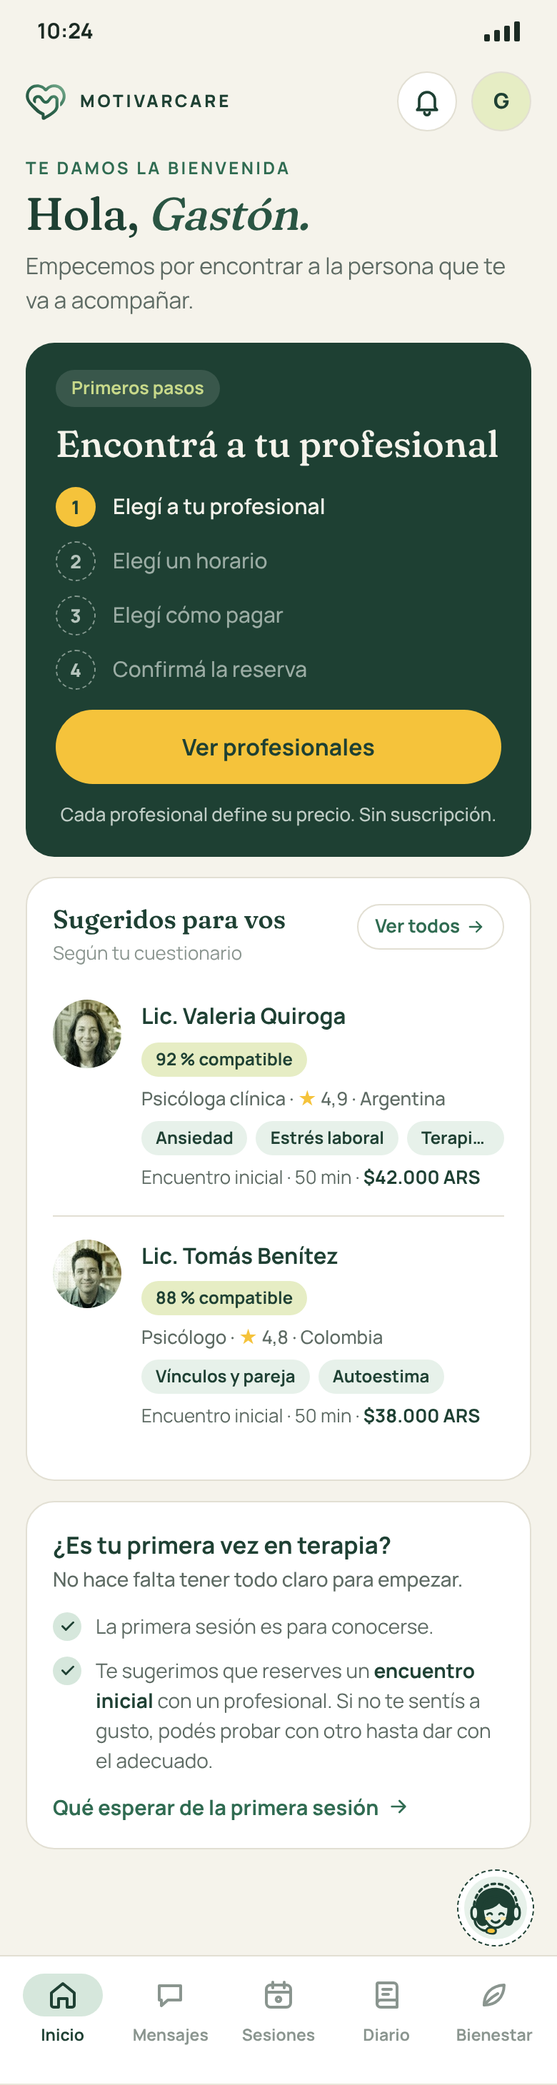
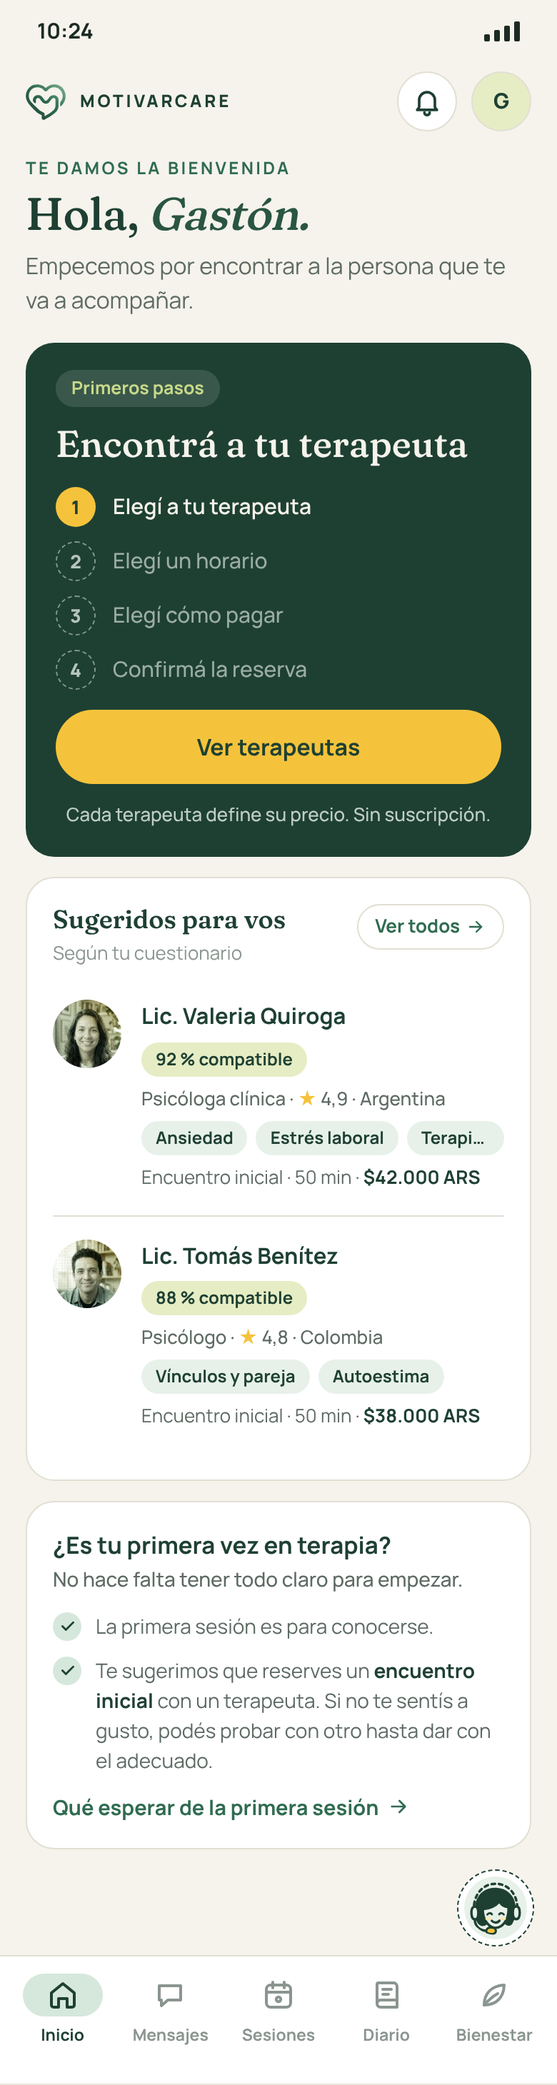
App del usuario: "Tu terapeuta", sumar terapeutas y avisos en el mockup 4
- "Tu profesional" pasa a "Tu terapeuta" en todos los mockups de la
  Ronda #2; el mockup 3 habla de terapeutas.
- Mockups 1, 2 y 4: espacio punteado "Sumar un terapeuta" debajo de la
  tarjeta.
- Mockup 4: solo psicólogos, el terapeuta principal primero y avisos de
  sesión próxima o mensaje sin leer en las pastillas de los demás.
- La regla de "Tu terapeuta", otros terapeutas y "Profesionales" queda
  en contexto.md y en las decisiones de la ronda.

Claude-Session: https://claude.ai/code/session_01WU1DRuLLvKJwMVuiPWLics

diff --git a/web/public/app-usuario/ronda-2.html b/web/public/app-usuario/ronda-2.html
@@ -539,6 +539,18 @@ ul.lista-simple { padding: 0; }
 .tel-pro.multi .tabs-pro { gap: 6px; }
 .tel-pro.multi .tab-pro { padding: 0 10px 0 4px; font-size: 12.5px; height: 38px; }
 .tel-pro.multi .tab-pro img { width: 30px; height: 30px; }
+
+/* Terapeutas: avisos en las pastillas y "Sumar un terapeuta" */
+.tab-pro .aviso { display: inline-flex; align-items: center; gap: 3px; margin-left: -2px; padding: 3px 7px; border-radius: 99px; font-size: 11px; font-weight: 800; color: var(--bosque); }
+.tab-pro .aviso .ico { width: 12px; height: 12px; }
+.tab-pro .aviso.ses { background: var(--menta); }
+.tab-pro .aviso.msj { background: var(--amarillo); }
+.tabs-pro { flex-wrap: wrap; }
+.columna-der { display: flex; flex-direction: column; gap: 10px; min-width: 0; }
+.sumar-terapeuta .sumar { display: flex; align-items: center; gap: 12px; padding: 16px 18px; border-radius: var(--rm); border: 1.5px dashed var(--salvia-fuerte); font-weight: 700; font-size: 15px; color: var(--bosque); text-decoration: none; }
+.sumar-terapeuta .mas { width: 30px; height: 30px; border-radius: 50%; border: 1.5px dashed var(--bosque); display: grid; place-items: center; font-size: 18px; font-weight: 600; line-height: 1; }
+.sumar-terapeuta p { font-size: 13px; color: var(--tinta-tenue); margin-top: 8px; }
+.tel-sumar .sumar { padding: 14px 16px; }
 </style>
 </head>
 <body>
@@ -638,11 +650,12 @@ ul.lista-simple { padding: 0; }
             </div>
           </section>
         </div>
+        <div class="columna-der">
         <article class="tarjeta pro2">
           <div class="pro2-cab"><a class="ver-perfil">Ver perfil<svg class="ico"><use href="#i-flecha"/></svg></a>
             <img class="avatar" src="../landing/img/profesionales/valeria-quiroga.jpg" alt="" width="64" height="64">
             <div>
-              <span class="tenue">Tu profesional</span>
+              <span class="tenue">Tu terapeuta</span>
               <b>Lic. Valeria Quiroga</b>
               <span class="califica"><span class="estrella">★</span> 4,9 <span class="sep">·</span> <span class="pais"><svg class="ico"><use href="#i-pin"/></svg>Argentina</span></span>
             </div>
@@ -653,6 +666,11 @@ ul.lista-simple { padding: 0; }
           <div class="disponibles"><span class="et">Sesiones disponibles</span><div class="fila-disp"><b>2</b><span>del paquete de 4 con Valeria</span><span class="puntos4"><i class="u"></i><i class="u"></i><i></i><i></i></span></div></div>
           <div class="botones"><a class="boton contorno"><svg class="ico chico"><use href="#i-chat"/></svg>Escribile</a><a class="boton contorno">Comprar más sesiones</a></div>
         </article>
+          <div class="sumar-terapeuta">
+            <a class="sumar"><span class="mas">+</span>Sumar un terapeuta</a>
+            <p>Cada terapeuta tiene sus propias sesiones, su precio y su paquete.</p>
+          </div>
+        </div>
       </div>
 
     </div>
@@ -690,7 +708,7 @@ ul.lista-simple { padding: 0; }
       <div class="pro2-cab"><a class="ver-perfil">Ver perfil<svg class="ico"><use href="#i-flecha"/></svg></a>
         <img class="avatar" src="../landing/img/profesionales/valeria-quiroga.jpg" alt="" width="52" height="52">
         <div>
-          <span class="tenue">Tu profesional</span>
+          <span class="tenue">Tu terapeuta</span>
           <b>Lic. Valeria Quiroga</b>
           <span class="califica"><span class="estrella">★</span> 4,9 <span class="sep">·</span> <span class="pais"><svg class="ico"><use href="#i-pin"/></svg>Argentina</span></span>
         </div>
@@ -701,6 +719,10 @@ ul.lista-simple { padding: 0; }
       <div class="disponibles"><span class="et">Sesiones disponibles</span><div class="fila-disp"><b>2</b><span>del paquete de 4 con Valeria</span><span class="puntos4"><i class="u"></i><i class="u"></i><i></i><i></i></span></div></div>
       <div class="botones"><a class="boton contorno"><svg class="ico chico"><use href="#i-chat"/></svg>Escribile</a><a class="boton contorno">Comprar más sesiones</a></div>
     </article>
+    <div class="sumar-terapeuta tel-sumar">
+            <a class="sumar"><span class="mas">+</span>Sumar un terapeuta</a>
+            <p>Cada terapeuta tiene sus propias sesiones, su precio y su paquete.</p>
+          </div>
     <article class="tarjeta menta clima" style="gap:12px">
             <div class="cab-clima"><div><b>¿Cómo está tu día?</b></div><a class="enlace">Ir al diario<svg class="ico"><use href="#i-flecha"/></svg></a></div>
             <div class="ops-clima"><span class="op"><span class="ci"><svg viewBox="0 0 24 24" aria-hidden="true"><g transform="translate(0,-2.5)"><path d="M7.5 17.5h9.8a3.7 3.7 0 0 0 .3-7.4 5.2 5.2 0 0 0-10-1A4.2 4.2 0 0 0 7.5 17.5z"/></g><path d="M12.6 15.6l-1.9 3.2h2.8l-1.9 3.4"/></svg></span>Tormenta</span><span class="op"><span class="ci"><svg viewBox="0 0 24 24" aria-hidden="true"><g transform="translate(0,-2.5)"><path d="M7.5 17.5h9.8a3.7 3.7 0 0 0 .3-7.4 5.2 5.2 0 0 0-10-1A4.2 4.2 0 0 0 7.5 17.5z"/></g><path d="M9 17.6l-.9 2.6M12.4 17.6l-.9 2.6M15.8 17.6l-.9 2.6"/></svg></span>Lluvia</span><span class="op"><span class="ci"><svg viewBox="0 0 24 24" aria-hidden="true"><path d="M15.2 7.4a3.6 3.6 0 0 1 5.6 3.9"/><path d="M7.5 17.5h9.8a3.7 3.7 0 0 0 .3-7.4 5.2 5.2 0 0 0-10-1A4.2 4.2 0 0 0 7.5 17.5z"/></svg></span>Nublado</span><span class="op"><span class="ci"><svg viewBox="0 0 24 24" aria-hidden="true"><circle class="sol" cx="17.6" cy="6.2" r="3"/><path d="M17.6 1.6v.9M22.2 6.2h.9M20.9 2.9l.6-.6M14.3 2.9l-.6-.6"/><path class="tapa" d="M7.5 17.5h9.8a3.7 3.7 0 0 0 .3-7.4 5.2 5.2 0 0 0-10-1A4.2 4.2 0 0 0 7.5 17.5z"/></svg></span>Algo de sol</span><span class="op"><span class="ci"><svg viewBox="0 0 24 24" aria-hidden="true"><circle class="sol" cx="12" cy="12" r="4.2"/><path d="M12 3.5v1.8M12 18.7v1.8M3.5 12h1.8M18.7 12h1.8M6 6l1.3 1.3M16.7 16.7L18 18M6 18l1.3-1.3M16.7 7.3L18 6"/></svg></span>Despejado</span></div>
@@ -784,11 +806,12 @@ ul.lista-simple { padding: 0; }
             </div>
           </section>
         </div>
+        <div class="columna-der">
         <article class="tarjeta pro2">
           <div class="pro2-cab"><a class="ver-perfil">Ver perfil<svg class="ico"><use href="#i-flecha"/></svg></a>
             <img class="avatar" src="../landing/img/profesionales/valeria-quiroga.jpg" alt="" width="64" height="64">
             <div>
-              <span class="tenue">Tu profesional</span>
+              <span class="tenue">Tu terapeuta</span>
               <b>Lic. Valeria Quiroga</b>
               <span class="califica"><span class="estrella">★</span> 4,9 <span class="sep">·</span> <span class="pais"><svg class="ico"><use href="#i-pin"/></svg>Argentina</span></span>
             </div>
@@ -798,6 +821,11 @@ ul.lista-simple { padding: 0; }
           <div class="disponibles"><span class="et">Sesiones disponibles</span><div class="fila-disp"><b>2</b><span>del paquete de 4 con Valeria</span><span class="puntos4"><i class="u"></i><i class="u"></i><i></i><i></i></span></div></div>
           <div class="botones"><a class="boton contorno"><svg class="ico chico"><use href="#i-chat"/></svg>Escribile</a><a class="boton contorno">Comprar más sesiones</a></div>
         </article>
+          <div class="sumar-terapeuta">
+            <a class="sumar"><span class="mas">+</span>Sumar un terapeuta</a>
+            <p>Cada terapeuta tiene sus propias sesiones, su precio y su paquete.</p>
+          </div>
+        </div>
       </div>
 
     </div>
@@ -840,7 +868,7 @@ ul.lista-simple { padding: 0; }
       <div class="pro2-cab"><a class="ver-perfil">Ver perfil<svg class="ico"><use href="#i-flecha"/></svg></a>
         <img class="avatar" src="../landing/img/profesionales/valeria-quiroga.jpg" alt="" width="52" height="52">
         <div>
-          <span class="tenue">Tu profesional</span>
+          <span class="tenue">Tu terapeuta</span>
           <b>Lic. Valeria Quiroga</b>
           <span class="califica"><span class="estrella">★</span> 4,9 <span class="sep">·</span> <span class="pais"><svg class="ico"><use href="#i-pin"/></svg>Argentina</span></span>
         </div>
@@ -850,6 +878,10 @@ ul.lista-simple { padding: 0; }
       <div class="disponibles"><span class="et">Sesiones disponibles</span><div class="fila-disp"><b>2</b><span>del paquete de 4 con Valeria</span><span class="puntos4"><i class="u"></i><i class="u"></i><i></i><i></i></span></div></div>
       <div class="botones"><a class="boton contorno"><svg class="ico chico"><use href="#i-chat"/></svg>Escribile</a><a class="boton contorno">Comprar más sesiones</a></div>
     </article>
+    <div class="sumar-terapeuta tel-sumar">
+            <a class="sumar"><span class="mas">+</span>Sumar un terapeuta</a>
+            <p>Cada terapeuta tiene sus propias sesiones, su precio y su paquete.</p>
+          </div>
     <article class="tarjeta menta clima" style="gap:12px">
             <div class="cab-clima"><div><b>¿Cómo está tu día?</b></div><a class="enlace">Ir al diario<svg class="ico"><use href="#i-flecha"/></svg></a></div>
             <div class="ops-clima"><span class="op"><span class="ci"><svg viewBox="0 0 24 24" aria-hidden="true"><g transform="translate(0,-2.5)"><path d="M7.5 17.5h9.8a3.7 3.7 0 0 0 .3-7.4 5.2 5.2 0 0 0-10-1A4.2 4.2 0 0 0 7.5 17.5z"/></g><path d="M12.6 15.6l-1.9 3.2h2.8l-1.9 3.4"/></svg></span>Tormenta</span><span class="op"><span class="ci"><svg viewBox="0 0 24 24" aria-hidden="true"><g transform="translate(0,-2.5)"><path d="M7.5 17.5h9.8a3.7 3.7 0 0 0 .3-7.4 5.2 5.2 0 0 0-10-1A4.2 4.2 0 0 0 7.5 17.5z"/></g><path d="M9 17.6l-.9 2.6M12.4 17.6l-.9 2.6M15.8 17.6l-.9 2.6"/></svg></span>Lluvia</span><span class="op"><span class="ci"><svg viewBox="0 0 24 24" aria-hidden="true"><path d="M15.2 7.4a3.6 3.6 0 0 1 5.6 3.9"/><path d="M7.5 17.5h9.8a3.7 3.7 0 0 0 .3-7.4 5.2 5.2 0 0 0-10-1A4.2 4.2 0 0 0 7.5 17.5z"/></svg></span>Nublado</span><span class="op"><span class="ci"><svg viewBox="0 0 24 24" aria-hidden="true"><circle class="sol" cx="17.6" cy="6.2" r="3"/><path d="M17.6 1.6v.9M22.2 6.2h.9M20.9 2.9l.6-.6M14.3 2.9l-.6-.6"/><path class="tapa" d="M7.5 17.5h9.8a3.7 3.7 0 0 0 .3-7.4 5.2 5.2 0 0 0-10-1A4.2 4.2 0 0 0 7.5 17.5z"/></svg></span>Algo de sol</span><span class="op"><span class="ci"><svg viewBox="0 0 24 24" aria-hidden="true"><circle class="sol" cx="12" cy="12" r="4.2"/><path d="M12 3.5v1.8M12 18.7v1.8M3.5 12h1.8M18.7 12h1.8M6 6l1.3 1.3M16.7 16.7L18 18M6 18l1.3-1.3M16.7 7.3L18 6"/></svg></span>Despejado</span></div>
@@ -902,16 +934,16 @@ ul.lista-simple { padding: 0; }
         <div class="columna-izq">
         <article class="tarjeta bosque sesion primeros">
           <div class="cabeza"><span class="chip" style="background:var(--superficie)">Primeros pasos</span></div>
-          <div class="cuando" style="font-size:34px">Encontrá a tu profesional<small>Te sugerimos profesionales según lo que contaste en el cuestionario.</small></div>
+          <div class="cuando" style="font-size:34px">Encontrá a tu terapeuta<small>Te sugerimos profesionales según lo que contaste en el cuestionario.</small></div>
           <div class="pasos r2">
-            <div class="paso actual"><span class="num">1</span>Elegí a tu profesional</div>
+            <div class="paso actual"><span class="num">1</span>Elegí a tu terapeuta</div>
             <div class="paso pendiente"><span class="num">2</span>Elegí un horario</div>
             <div class="paso pendiente"><span class="num">3</span>Elegí cómo pagar</div>
             <div class="paso pendiente"><span class="num">4</span>Confirmá la reserva</div>
           </div>
           <div class="acciones">
-            <a class="boton primario grande">Ver profesionales<svg class="ico chico"><use href="#i-flecha"/></svg></a>
-            <span class="peq" style="color:var(--bosque)">Cada profesional define su precio. Sin suscripción.</span>
+            <a class="boton primario grande">Ver terapeutas<svg class="ico chico"><use href="#i-flecha"/></svg></a>
+            <span class="peq" style="color:var(--bosque)">Cada terapeuta define su precio. Sin suscripción.</span>
           </div>
         </article>
                     <section class="entre r2">
@@ -921,7 +953,7 @@ ul.lista-simple { padding: 0; }
             <div><b style="color:var(--bosque);font-size:16.5px">¿Es tu primera vez en terapia?</b><p class="peq">No hace falta tener todo claro para empezar.</p></div>
             <ul class="lista-simple">
               <li><span class="tilde"><svg class="ico"><use href="#i-check"/></svg></span>La primera sesión es para conocerse.</li>
-              <li><span class="tilde"><svg class="ico"><use href="#i-check"/></svg></span><span>Te sugerimos que reserves un <b style="color:var(--bosque)">encuentro inicial</b> con un profesional. Si no te sentís a gusto, podés probar con otro hasta dar con el adecuado.</span></li>
+              <li><span class="tilde"><svg class="ico"><use href="#i-check"/></svg></span><span>Te sugerimos que reserves un <b style="color:var(--bosque)">encuentro inicial</b> con un terapeuta. Si no te sentís a gusto, podés probar con otro hasta dar con el adecuado.</span></li>
             </ul>
             <a class="enlace">Qué esperar de la primera sesión<svg class="ico"><use href="#i-flecha"/></svg></a>
           </article>
@@ -989,15 +1021,15 @@ ul.lista-simple { padding: 0; }
     </div>
     <article class="tarjeta bosque sesion primeros r2">
       <div class="cabeza"><span class="chip" style="background:var(--superficie)">Primeros pasos</span></div>
-      <div class="cuando" style="font-size:26px">Encontrá a tu profesional</div>
+      <div class="cuando" style="font-size:26px">Encontrá a tu terapeuta</div>
       <div class="pasos r2 tel-pasos">
-            <div class="paso actual"><span class="num">1</span>Elegí a tu profesional</div>
+            <div class="paso actual"><span class="num">1</span>Elegí a tu terapeuta</div>
             <div class="paso pendiente"><span class="num">2</span>Elegí un horario</div>
             <div class="paso pendiente"><span class="num">3</span>Elegí cómo pagar</div>
             <div class="paso pendiente"><span class="num">4</span>Confirmá la reserva</div>
           </div>
-      <a class="boton primario grande ancho" style="position:relative">Ver profesionales</a>
-      <span class="peq" style="position:relative;text-align:center;color:var(--bosque);font-size:13px">Cada profesional define su precio. Sin suscripción.</span>
+      <a class="boton primario grande ancho" style="position:relative">Ver terapeutas</a>
+      <span class="peq" style="position:relative;text-align:center;color:var(--bosque);font-size:13px">Cada terapeuta define su precio. Sin suscripción.</span>
     </article>
         <article class="tarjeta sugeridos2 tel-sug">
       <div class="sug-cab"><div><b>Sugeridos para vos</b><span class="tenue">Según tu cuestionario</span></div><a class="ver-perfil" style="position:static">Ver todos<svg class="ico"><use href="#i-flecha"/></svg></a></div>
@@ -1024,7 +1056,7 @@ ul.lista-simple { padding: 0; }
             <div><b style="color:var(--bosque);font-size:16.5px">¿Es tu primera vez en terapia?</b><p class="peq">No hace falta tener todo claro para empezar.</p></div>
             <ul class="lista-simple">
               <li><span class="tilde"><svg class="ico"><use href="#i-check"/></svg></span>La primera sesión es para conocerse.</li>
-              <li><span class="tilde"><svg class="ico"><use href="#i-check"/></svg></span><span>Te sugerimos que reserves un <b style="color:var(--bosque)">encuentro inicial</b> con un profesional. Si no te sentís a gusto, podés probar con otro hasta dar con el adecuado.</span></li>
+              <li><span class="tilde"><svg class="ico"><use href="#i-check"/></svg></span><span>Te sugerimos que reserves un <b style="color:var(--bosque)">encuentro inicial</b> con un terapeuta. Si no te sentís a gusto, podés probar con otro hasta dar con el adecuado.</span></li>
             </ul>
             <a class="enlace">Qué esperar de la primera sesión<svg class="ico"><use href="#i-flecha"/></svg></a>
           </article>
@@ -1050,7 +1082,7 @@ ul.lista-simple { padding: 0; }
   <aside class="lateral">
     <div class="marca"><img src="../landing/img/logo.svg" alt="">MOTIVARCARE</div>
     <a class="nav-item activo"><svg class="ico"><use href="#i-inicio"/></svg>Inicio</a>
-    <a class="nav-item"><svg class="ico"><use href="#i-chat"/></svg>Mensajes<span class="contador">1</span></a>
+    <a class="nav-item"><svg class="ico"><use href="#i-chat"/></svg>Mensajes<span class="contador">2</span></a>
     <a class="nav-item"><svg class="ico"><use href="#i-sesiones"/></svg>Sesiones</a>
     <a class="nav-item"><svg class="ico"><use href="#i-diario"/></svg>Diario</a>
     <a class="nav-item"><svg class="ico"><use href="#i-bienestar"/></svg>Bienestar</a>
@@ -1069,7 +1101,7 @@ ul.lista-simple { padding: 0; }
       <div class="saludo">
         <span class="t-fecha">Miércoles 4 de noviembre</span>
         <h1 class="t1">Hola, <em>Gastón.</em></h1>
-        <p class="bajada">Esta semana tenés 3 sesiones con 3 profesionales. La próxima, con Valeria, empieza en unos minutos.</p>
+        <p class="bajada">Esta semana tenés 3 sesiones con 3 terapeutas. La próxima, con Valeria, empieza en unos minutos.</p>
       </div>
       <div class="grilla-inicio">
         <div class="columna-izq">
@@ -1104,19 +1136,20 @@ ul.lista-simple { padding: 0; }
             </div>
           </section>
         </div>
+        <div class="columna-der">
         <article class="tarjeta pro2 multi">
           <div class="selector-pro">
-            <span class="et-sel">Tus profesionales · 3</span>
+            <span class="et-sel">Tus terapeutas · 3</span>
             <div class="tabs-pro">
-              <span class="tab-pro activo"><img src="../landing/img/profesionales/valeria-quiroga.jpg" alt=""><span>Valeria</span><i class="nuevo"></i></span>
-              <span class="tab-pro"><img src="../landing/img/profesionales/andres-salvatierra.jpg" alt=""><span>Andrés</span></span>
-              <span class="tab-pro"><img src="../landing/img/profesionales/tomas-benitez.jpg" alt=""><span>Tomás</span></span>
+              <span class="tab-pro activo"><img src="../landing/img/profesionales/valeria-quiroga.jpg" alt=""><span>Valeria</span></span>
+              <span class="tab-pro"><img src="../landing/img/profesionales/andres-salvatierra.jpg" alt=""><span>Andrés</span><span class="aviso ses" title="Sesión el viernes a las 10:00"><svg class="ico"><use href="#i-sesiones"/></svg>Vie 10:00</span></span>
+              <span class="tab-pro"><img src="../landing/img/profesionales/tomas-benitez.jpg" alt=""><span>Tomás</span><span class="aviso msj" title="Mensaje sin leer"><svg class="ico"><use href="#i-chat"/></svg>1</span></span>
             </div>
           </div>
           <div class="pro2-cab"><a class="ver-perfil">Ver perfil<svg class="ico"><use href="#i-flecha"/></svg></a>
             <img class="avatar" src="../landing/img/profesionales/valeria-quiroga.jpg" alt="" width="64" height="64">
             <div>
-              <span class="tenue">Terapia individual</span>
+              <span class="tenue">Tu terapeuta</span>
               <b>Lic. Valeria Quiroga</b>
               <span class="califica"><span class="estrella">★</span> 4,9 <span class="sep">·</span> <span class="pais"><svg class="ico"><use href="#i-pin"/></svg>Argentina</span></span>
             </div>
@@ -1127,6 +1160,11 @@ ul.lista-simple { padding: 0; }
           <div class="disponibles"><span class="et">Sesiones disponibles</span><div class="fila-disp"><b>2</b><span>del paquete de 4 con Valeria</span><span class="puntos4"><i class="u"></i><i class="u"></i><i></i><i></i></span></div></div>
           <div class="botones"><a class="boton contorno"><svg class="ico chico"><use href="#i-chat"/></svg>Escribile</a><a class="boton contorno">Comprar más sesiones</a></div>
         </article>
+          <div class="sumar-terapeuta">
+            <a class="sumar"><span class="mas">+</span>Sumar un terapeuta</a>
+            <p>Cada terapeuta tiene sus propias sesiones, su precio y su paquete.</p>
+          </div>
+        </div>
       </div>
 
     </div>
@@ -1159,20 +1197,20 @@ ul.lista-simple { padding: 0; }
       <a class="boton primario grande ancho" style="position:relative"><svg class="ico"><use href="#i-video"/></svg>Entrar a la sesión</a>
       <div style="display:flex;justify-content:space-between;position:relative"><a class="boton texto" style="height:28px">Reprogramar</a><a class="boton texto" style="height:28px">Probar cámara</a></div>
     </article>
-    <div class="cal-tel"><div class="eq-cal-cab"><h2 class="eq-titulo">Esta semana</h2><span class="rango">2 al 8 nov</span><a class="eq-expandir" href="#sesiones">Ver sesiones<svg class="ico" style="width:14px;height:14px"><use href="#i-flecha"/></svg></a></div><div class="sem-tel"><div class="dt"><span class="d">L</span><span class="n">2</span><img class="m" src="../landing/img/profesionales/tomas-benitez.jpg" alt=""></div><div class="dt"><span class="d">M</span><span class="n">3</span><span class="m p"></span></div><div class="dt hoy"><span class="d">Hoy</span><span class="n">4</span><img class="m" src="../landing/img/profesionales/valeria-quiroga.jpg" alt=""></div><div class="dt"><span class="d">J</span><span class="n">5</span><span class="m p"></span></div><div class="dt"><span class="d">V</span><span class="n">6</span><img class="m" src="../landing/img/profesionales/andres-salvatierra.jpg" alt=""></div><div class="dt"><span class="d">S</span><span class="n">7</span><span class="m p"></span></div><div class="dt"><span class="d">D</span><span class="n">8</span></div></div><div class="ley-tel"><span>3 sesiones con 3 profesionales</span><span><i class="p"></i>Ejercicios y diario</span></div></div>
+    <div class="cal-tel"><div class="eq-cal-cab"><h2 class="eq-titulo">Esta semana</h2><span class="rango">2 al 8 nov</span><a class="eq-expandir" href="#sesiones">Ver sesiones<svg class="ico" style="width:14px;height:14px"><use href="#i-flecha"/></svg></a></div><div class="sem-tel"><div class="dt"><span class="d">L</span><span class="n">2</span><img class="m" src="../landing/img/profesionales/tomas-benitez.jpg" alt=""></div><div class="dt"><span class="d">M</span><span class="n">3</span><span class="m p"></span></div><div class="dt hoy"><span class="d">Hoy</span><span class="n">4</span><img class="m" src="../landing/img/profesionales/valeria-quiroga.jpg" alt=""></div><div class="dt"><span class="d">J</span><span class="n">5</span><span class="m p"></span></div><div class="dt"><span class="d">V</span><span class="n">6</span><img class="m" src="../landing/img/profesionales/andres-salvatierra.jpg" alt=""></div><div class="dt"><span class="d">S</span><span class="n">7</span><span class="m p"></span></div><div class="dt"><span class="d">D</span><span class="n">8</span></div></div><div class="ley-tel"><span>3 sesiones con 3 terapeutas</span><span><i class="p"></i>Ejercicios y diario</span></div></div>
     <article class="tarjeta pro2 tel-pro multi">
       <div class="selector-pro">
-            <span class="et-sel">Tus profesionales · 3</span>
+            <span class="et-sel">Tus terapeutas · 3</span>
             <div class="tabs-pro">
-              <span class="tab-pro activo"><img src="../landing/img/profesionales/valeria-quiroga.jpg" alt=""><span>Valeria</span><i class="nuevo"></i></span>
-              <span class="tab-pro"><img src="../landing/img/profesionales/andres-salvatierra.jpg" alt=""><span>Andrés</span></span>
-              <span class="tab-pro"><img src="../landing/img/profesionales/tomas-benitez.jpg" alt=""><span>Tomás</span></span>
+              <span class="tab-pro activo"><img src="../landing/img/profesionales/valeria-quiroga.jpg" alt=""><span>Valeria</span></span>
+              <span class="tab-pro"><img src="../landing/img/profesionales/andres-salvatierra.jpg" alt=""><span>Andrés</span><span class="aviso ses" title="Sesión el viernes a las 10:00"><svg class="ico"><use href="#i-sesiones"/></svg>Vie 10:00</span></span>
+              <span class="tab-pro"><img src="../landing/img/profesionales/tomas-benitez.jpg" alt=""><span>Tomás</span><span class="aviso msj" title="Mensaje sin leer"><svg class="ico"><use href="#i-chat"/></svg>1</span></span>
             </div>
           </div>
       <div class="pro2-cab"><a class="ver-perfil">Ver perfil<svg class="ico"><use href="#i-flecha"/></svg></a>
         <img class="avatar" src="../landing/img/profesionales/valeria-quiroga.jpg" alt="" width="52" height="52">
         <div>
-          <span class="tenue">Terapia individual</span>
+          <span class="tenue">Tu terapeuta</span>
           <b>Lic. Valeria Quiroga</b>
           <span class="califica"><span class="estrella">★</span> 4,9 <span class="sep">·</span> <span class="pais"><svg class="ico"><use href="#i-pin"/></svg>Argentina</span></span>
         </div>
@@ -1183,6 +1221,10 @@ ul.lista-simple { padding: 0; }
       <div class="disponibles"><span class="et">Sesiones disponibles</span><div class="fila-disp"><b>2</b><span>del paquete de 4 con Valeria</span><span class="puntos4"><i class="u"></i><i class="u"></i><i></i><i></i></span></div></div>
       <div class="botones"><a class="boton contorno"><svg class="ico chico"><use href="#i-chat"/></svg>Escribile</a><a class="boton contorno">Comprar más sesiones</a></div>
     </article>
+    <div class="sumar-terapeuta tel-sumar">
+            <a class="sumar"><span class="mas">+</span>Sumar un terapeuta</a>
+            <p>Cada terapeuta tiene sus propias sesiones, su precio y su paquete.</p>
+          </div>
     <article class="tarjeta menta clima" style="gap:12px">
             <div class="cab-clima"><div><b>¿Cómo está tu día?</b></div><a class="enlace">Ir al diario<svg class="ico"><use href="#i-flecha"/></svg></a></div>
             <div class="ops-clima"><span class="op"><span class="ci"><svg viewBox="0 0 24 24" aria-hidden="true"><g transform="translate(0,-2.5)"><path d="M7.5 17.5h9.8a3.7 3.7 0 0 0 .3-7.4 5.2 5.2 0 0 0-10-1A4.2 4.2 0 0 0 7.5 17.5z"/></g><path d="M12.6 15.6l-1.9 3.2h2.8l-1.9 3.4"/></svg></span>Tormenta</span><span class="op"><span class="ci"><svg viewBox="0 0 24 24" aria-hidden="true"><g transform="translate(0,-2.5)"><path d="M7.5 17.5h9.8a3.7 3.7 0 0 0 .3-7.4 5.2 5.2 0 0 0-10-1A4.2 4.2 0 0 0 7.5 17.5z"/></g><path d="M9 17.6l-.9 2.6M12.4 17.6l-.9 2.6M15.8 17.6l-.9 2.6"/></svg></span>Lluvia</span><span class="op"><span class="ci"><svg viewBox="0 0 24 24" aria-hidden="true"><path d="M15.2 7.4a3.6 3.6 0 0 1 5.6 3.9"/><path d="M7.5 17.5h9.8a3.7 3.7 0 0 0 .3-7.4 5.2 5.2 0 0 0-10-1A4.2 4.2 0 0 0 7.5 17.5z"/></svg></span>Nublado</span><span class="op"><span class="ci"><svg viewBox="0 0 24 24" aria-hidden="true"><circle class="sol" cx="17.6" cy="6.2" r="3"/><path d="M17.6 1.6v.9M22.2 6.2h.9M20.9 2.9l.6-.6M14.3 2.9l-.6-.6"/><path class="tapa" d="M7.5 17.5h9.8a3.7 3.7 0 0 0 .3-7.4 5.2 5.2 0 0 0-10-1A4.2 4.2 0 0 0 7.5 17.5z"/></svg></span>Algo de sol</span><span class="op"><span class="ci"><svg viewBox="0 0 24 24" aria-hidden="true"><circle class="sol" cx="12" cy="12" r="4.2"/><path d="M12 3.5v1.8M12 18.7v1.8M3.5 12h1.8M18.7 12h1.8M6 6l1.3 1.3M16.7 16.7L18 18M6 18l1.3-1.3M16.7 7.3L18 6"/></svg></span>Despejado</span></div>
@@ -1192,7 +1234,7 @@ ul.lista-simple { padding: 0; }
   <span class="maca redonda"><img src="../landing/img/maca.svg" alt="Hablar con Maca"></span>
   <nav class="nav-tel">
     <a class="activo"><span class="pastilla" style="position:relative"><svg class="ico"><use href="#i-inicio"/></svg></span>Inicio</a>
-    <a><span class="pastilla" style="position:relative"><span style="position:absolute;top:2px;right:12px;min-width:18px;height:18px;padding:0 5px;border-radius:99px;background:var(--amarillo);color:var(--bosque);font:800 11px/18px var(--sans);text-align:center">1</span><svg class="ico"><use href="#i-chat"/></svg></span>Mensajes</a>
+    <a><span class="pastilla" style="position:relative"><span style="position:absolute;top:2px;right:12px;min-width:18px;height:18px;padding:0 5px;border-radius:99px;background:var(--amarillo);color:var(--bosque);font:800 11px/18px var(--sans);text-align:center">2</span><svg class="ico"><use href="#i-chat"/></svg></span>Mensajes</a>
     <a><span class="pastilla" style="position:relative"><svg class="ico"><use href="#i-sesiones"/></svg></span>Sesiones</a>
     <a><span class="pastilla" style="position:relative"><svg class="ico"><use href="#i-diario"/></svg></span>Diario</a>
     <a><span class="pastilla" style="position:relative"><svg class="ico"><use href="#i-bienestar"/></svg></span>Bienestar</a>

diff --git a/06-app-usuario/historial/ronda-2.md b/06-app-usuario/historial/ronda-2.md
@@ -81,7 +81,8 @@ Cada mockup se hace en escritorio (1440 × 1024) y en teléfono (390 de ancho). 
     <ul>
       <li>La tarjeta verde muestra la sesión más próxima, sea con quien sea.</li>
       <li>La agenda de la semana reúne las sesiones con todos, cada profesional con su foto y su color.</li>
-      <li>La tarjeta de la derecha suma un selector con la foto de cada profesional: se ve uno por vez, con los mismos datos que en el mockup 1.</li>
+      <li>La tarjeta de la derecha suma un selector con la foto de cada terapeuta: primero el principal, y avisos de sesión próxima o mensaje en los demás.</li>
+      <li>Debajo, "Sumar un terapeuta".</li>
     </ul>
     <a class="boton-ver" href="/app-usuario/ronda-2.html#r2-4-escritorio">Ver en tamaño real →</a>
   </div>
@@ -90,7 +91,7 @@ Cada mockup se hace en escritorio (1440 × 1024) y en teléfono (390 de ancho). 
 
 ### Detalle del mockup 1
 
-Toma como base el Inicio B3 de la [Ronda #1](/06-app-usuario/historial/ronda-1/) (variante B, con "Mensajes" en la navegación), en escritorio, y su par B4 en el teléfono. La tarjeta de la sesión, con "Entrar a la sesión", sigue igual. Lo que cambia es **la tarjeta del profesional**, a la derecha, que ahora reúne todo lo que la persona necesita saber de quien la atiende:
+Toma como base el Inicio B3 de la [Ronda #1](/06-app-usuario/historial/ronda-1/) (variante B, con "Mensajes" en la navegación), en escritorio, y su par B4 en el teléfono. La tarjeta de la sesión, con "Entrar a la sesión", sigue igual. Lo que cambia es **la tarjeta del terapeuta** ("Tu terapeuta"), a la derecha, que ahora reúne todo lo que la persona necesita saber de quien la atiende:
 
 - **Avatar, nombre y un resumen de la calificación y el país:** "★ 4,9 · Argentina".
 - **Especialidades en pills, en una sola línea:** se muestran las que entran; si la última no entra completa, se corta con "…" (en el mockup, "Terapia cognitivo-cond…"), y las demás quedan para el perfil.
@@ -164,12 +165,12 @@ Para quien se registró y todavía no eligió profesional. Mantiene la estructur
 
 ## 4 · Inicio con más de un profesional asignado
 
-Combina la familia 2 (la agenda y la sesión mandan) con la posibilidad de trabajar con varios profesionales a la vez. En el ejemplo, Gastón hace terapia individual con Valeria, tiene un seguimiento de psiquiatría con Andrés y trabaja vínculos con Tomás.
+Combina la familia 2 (la agenda y la sesión mandan) con la posibilidad de trabajar con varios terapeutas a la vez. En el ejemplo, Valeria es la terapeuta principal de Gastón ("Tu terapeuta"), y además contrató sesiones con Andrés y con Tomás, también psicólogos.
 
-- **Saludo:** "Esta semana tenés 3 sesiones con 3 profesionales. La próxima, con Valeria, empieza en unos minutos."
+- **Saludo:** "Esta semana tenés 3 sesiones con 3 terapeutas. La próxima, con Valeria, empieza en unos minutos."
 - **Tarjeta verde:** la sesión más próxima, sea con quien sea. Es igual a la del mockup 1, con el nombre del profesional de esa sesión.
 - **Agenda de la semana:** reúne las sesiones con todos los profesionales, cada uno con su foto y un color propio (salvia para Valeria, lima para Andrés y amarillo suave para Tomás, los colores categóricos del design system). En el teléfono, cada día lleva la foto del profesional con quien hay sesión.
-- **Tarjeta del profesional con selector:** arriba, "Tus profesionales · 3" y una pastilla con la foto y el nombre de cada uno. Se ve un profesional por vez, con los mismos datos y el mismo orden que en el mockup 1. Por defecto se abre el de la próxima sesión. Un punto amarillo sobre la foto avisa que ese profesional dejó un mensaje sin leer. Sobre el nombre, el servicio ("Terapia individual", "Psiquiatría"…) ayuda a distinguirlos. Las sesiones disponibles, "Escribile" y "Comprar más sesiones" son siempre del profesional elegido, como pide la regla de que nada se paga sin un profesional definido.
+- **Tarjeta del terapeuta con selector:** arriba, "Tus terapeutas · 3" y una pastilla con la foto y el nombre de cada uno. **El terapeuta principal va siempre primero** y es el que se abre por defecto; después van los demás. Se ve uno por vez, con los mismos datos y el mismo orden que en el mockup 1. Si otro terapeuta tiene una sesión próxima o dejó un mensaje sin leer, su pastilla lo avisa: "Vie 10:00" con el ícono del calendario (Andrés) o el ícono del chat con la cantidad de mensajes, en amarillo (Tomás). Sobre el nombre del principal dice "Tu terapeuta". Las sesiones disponibles, "Escribile" y "Comprar más sesiones" son siempre del profesional elegido, como pide la regla de que nada se paga sin un profesional definido.
 - **Entre sesiones:** igual que en el mockup 1.
 
 ## Decisiones de la ronda
@@ -182,3 +183,10 @@ En los mockups:
 
 - **Mockup 3 (sin profesional):** la tarjeta "¿Es tu primera vez en terapia?" sugiere reservar un encuentro inicial, y los sugeridos muestran el precio como "Encuentro inicial · 50 min".
 - **Reserva y pago (pendiente):** el paso "Elegí cómo pagar" de la Ronda #1 destacaba el paquete de 4 sesiones ("Ahorrás $8.400"). Para quien todavía no tiene profesional, tiene que destacar el encuentro inicial y dejar los paquetes para cuando ya eligió con quién seguir.
+
+### Tu terapeuta, otros terapeutas y profesionales (13/11)
+
+- **"Tu terapeuta"** es el profesional principal del usuario, con quien se alienta a sostener el tratamiento. Reemplaza a "Tu profesional" en todos los mockups.
+- El usuario puede **contratar sesiones (o paquetes) con otros terapeutas**. Debajo de la tarjeta del terapeuta hay un espacio punteado, **"Sumar un terapeuta"**, con la aclaración "Cada terapeuta tiene sus propias sesiones, su precio y su paquete". Está en los mockups 1, 2 y 4.
+- Con más de un terapeuta, **el principal va siempre primero**, y las pastillas de los demás avisan si hay una sesión próxima o un mensaje sin leer.
+- **En esta fase solo hay psicólogos.** "Profesionales" queda como término general para las categorías que se sumen más adelante (por ejemplo, nutricionistas). En el mockup 3, los textos pasan a "Encontrá a tu terapeuta", "Elegí a tu terapeuta" y "Ver terapeutas".

diff --git a/contexto.md b/contexto.md
@@ -21,6 +21,7 @@ El primer frente que se abordó fue la **auditoría integral de UX** del portal 
   * Portal del profesional: `https://pro.motivarcare.com/`
 * **Regla de producto, sin excepciones:** las sesiones y los paquetes siempre están vinculados a un profesional. El portal del paciente nunca debe dar la sensación de vender paquetes por sí solos, y no hay forma de pagar nada sin que la persona tenga claro a qué profesional le está pagando. Aplica a todos los flujos y a todas las pantallas.
 * **Cambio de profesional:** por ahora solo lo hace el backoffice, a pedido del paciente. Las sesiones que queden de un paquete no se pueden usar con otro profesional ni transferir.
+* **Tu terapeuta y otros terapeutas:** el usuario contrata sesiones o paquetes con un profesional principal, que en la app se llama **"Tu terapeuta"** (no se usa "profesional de cabecera"). La app alienta a sostener el tratamiento con esa persona, pero permite contratar sesiones o paquetes con otros terapeutas. Con más de uno, el principal aparece siempre primero. En esta fase solo hay psicólogos; **"Profesionales"** queda como término general para las categorías que se sumen más adelante (por ejemplo, nutricionistas).
 * **Encuentro inicial:** es el nombre de las primeras sesiones que contrata un paciente para encontrar a su profesional. El proceso es el mismo que el de cualquier sesión. La diferencia es la recomendación: al principio se sugiere reservar un encuentro inicial (una sola sesión) en lugar de un paquete, porque lo pagado por un paquete no se puede usar como crédito con otro profesional y obligaría a gestionar devoluciones. Si no hay afinidad, la persona prueba con otro profesional con un nuevo encuentro inicial.
 * **Sensibilidad del dominio:** la salud mental y la telemedicina exigen niveles muy altos de **confianza, claridad, privacidad y reducción de fricción**. Quienes buscan atención suelen estar en un momento de vulnerabilidad emocional, así que cualquier confusión en las tarifas, la falta de verificación de los profesionales o una barrera técnica en el agendamiento dispara el abandono.
 
